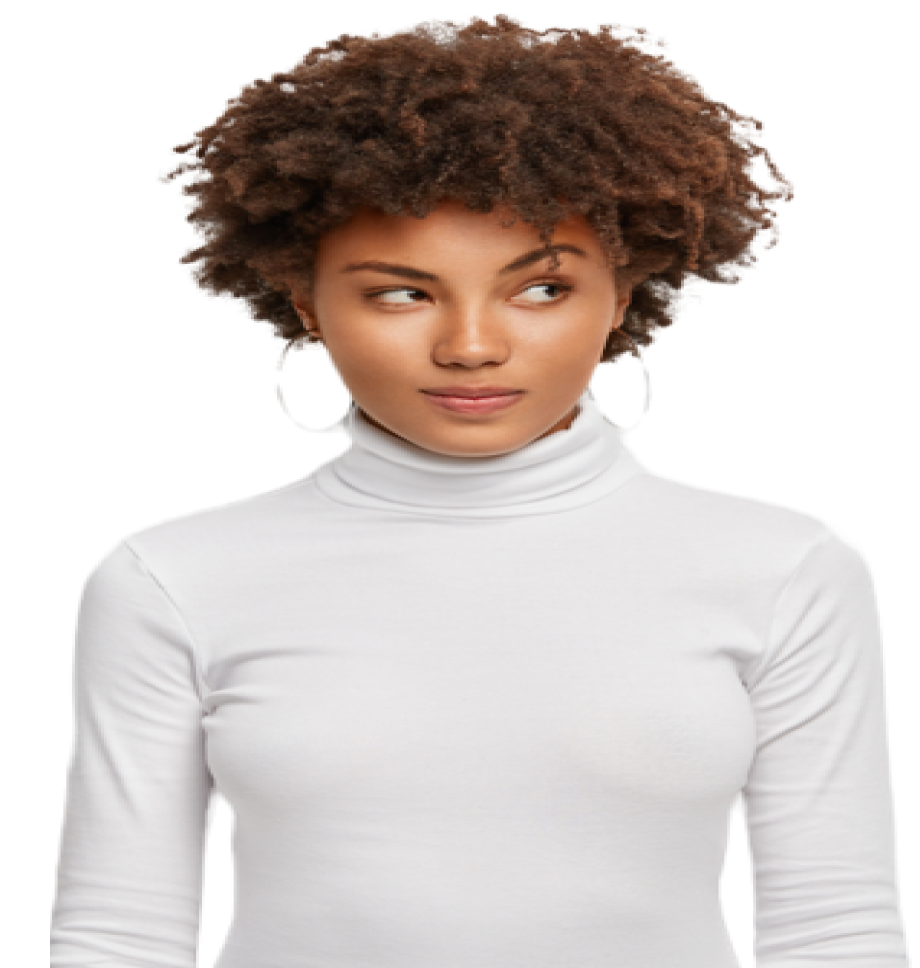
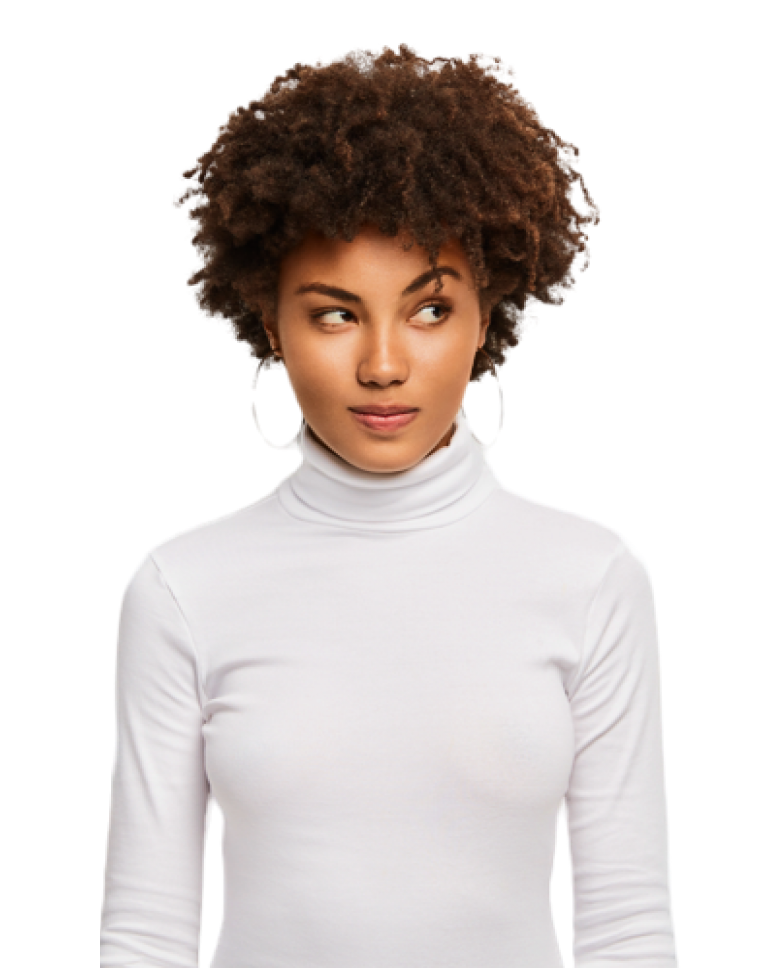
update

Changed region(s): [[0.0302, 0.0, 0.9961, 1.0], [0.7244, 0.7748, 0.7546, 1.0]]

diff --git a/src/components/home/Hero.js b/src/components/home/Hero.js
@@ -23,7 +23,7 @@ const Hero = () => {
             elevation={0}
             sx={{borderRadius: 10}}
         >
-            <Container maxWidth='lg'>
+            <Container maxWidth='xl'>
                 <Stack
                     justifyContent="space-between"
                     alignItems="center"
@@ -45,7 +45,7 @@ const Hero = () => {
                         </Stack>
                     </Box>
                     <Box sx={{ zIndex: 1, marginTop: 'auto', width: {xs: '80%', sm: '50%', md: '50%', lg: '50%' }, position: 'relative', top: {xs: '3rem', md: 0}}}>
-                        <img className='banner-img-large' src={HeroImage} alt="Hero" />
+                        <img className='hero-img-large' src={HeroImage} alt="Hero" />
                     </Box>
                 </Stack>
             </Container>

diff --git a/src/App.css b/src/App.css
@@ -21,8 +21,14 @@
   background-color: transparent;
   transform: rotate(-3deg);
 }
+.hero-img-large {
+  width: 100%;
+  vertical-align: bottom;
+}
+/* ===== BANNER =====  */
 .banner-img-large {
   width: 100%;
+  height: 30rem;
   vertical-align: bottom;
 }
 .banner-box-white {
